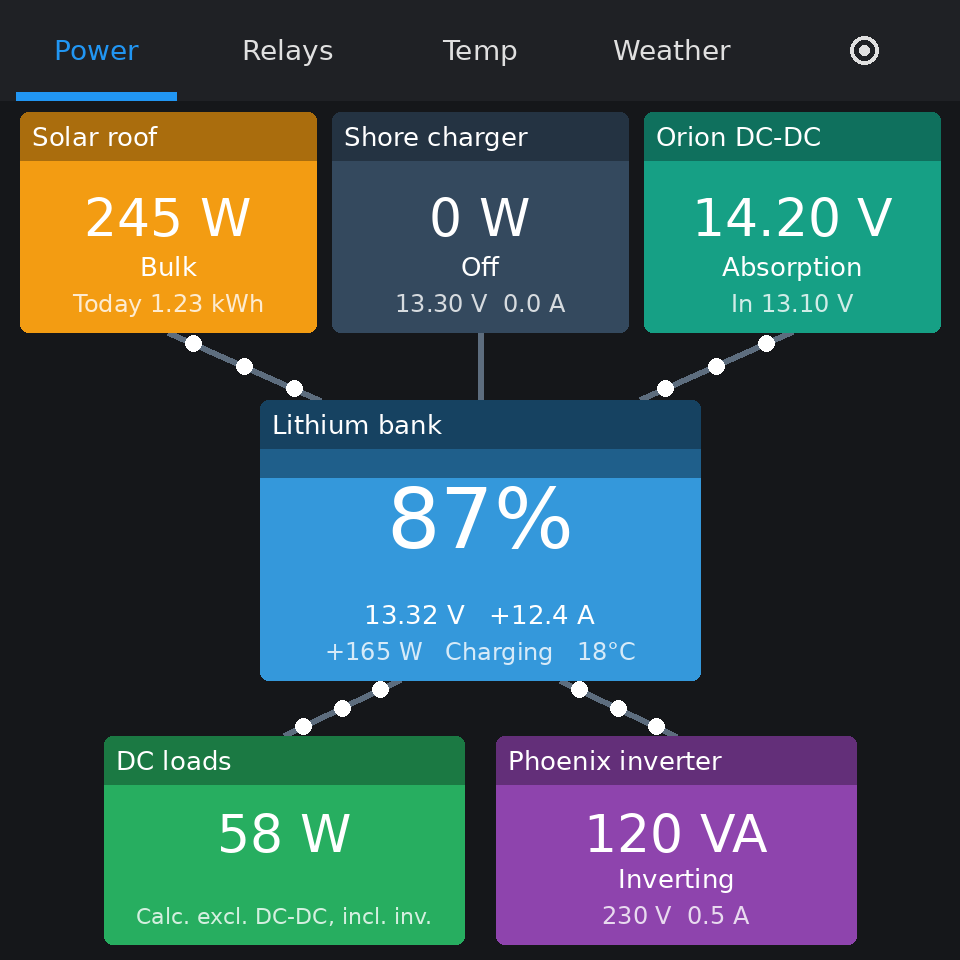
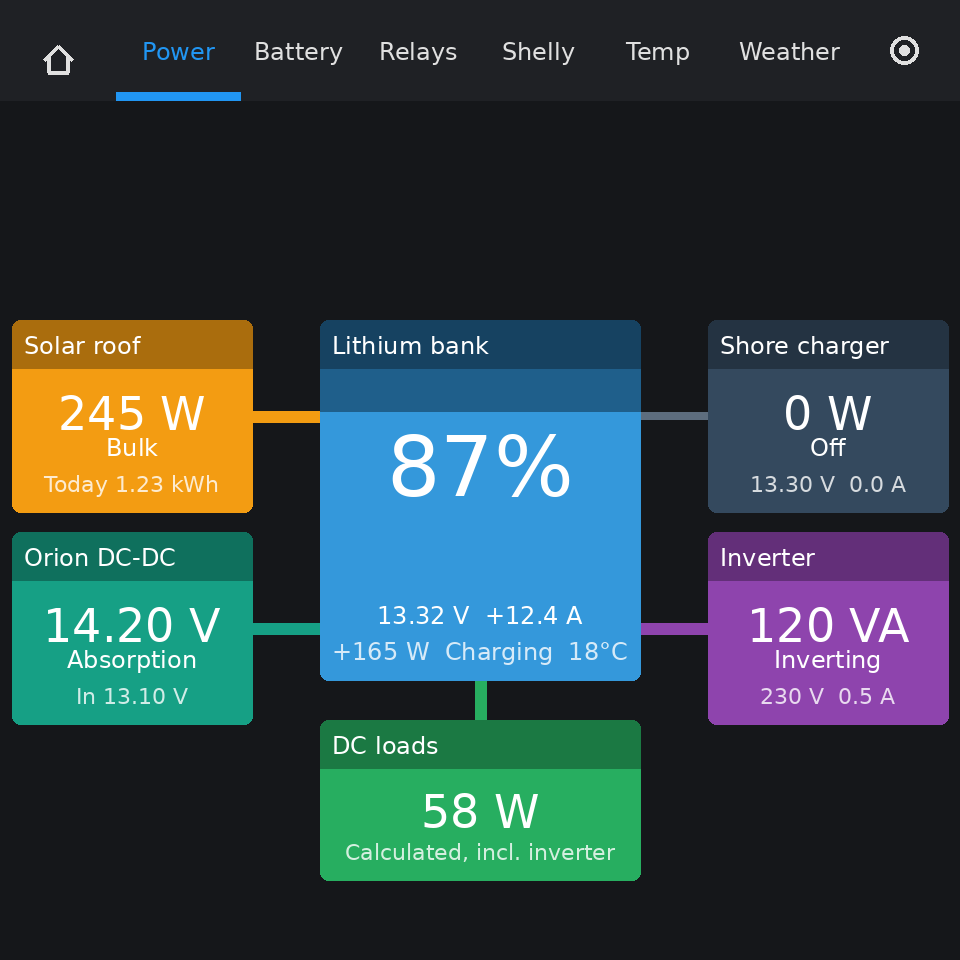
Add files via upload

diff --git a/web.cpp b/web.cpp
@@ -429,8 +429,11 @@ static void handle_root() {
 
   char pass[33];
   get_password(pass);
-  add(s, "<p class='sub'>Updated every 5 s &middot; up %lu min &middot; <a href='/log'>log</a> &middot; <a href='/files'>files</a>%s</p></body></html>", (unsigned long)(now / 60000),
-      pass[0] ? " &middot; <a href='/logout'>Log out</a>" : "");
+  add(s, "<p class='sub'>Updated every 5 s &middot; up %lu min &middot; <a href='/log'>log</a> &middot; <a href='/files'>files</a>%s</p>"
+         "<p class='sub'>&copy; %s %s Fredrik Rudin &middot; "
+         "<a href='https://github.com/fredrikrudin/esp32-S3-ws4-caravan'>github.com/fredrikrudin/esp32-S3-ws4-caravan</a><br>"
+         "med hj&auml;lp av claude.ai Opus 5</p></body></html>",
+      (unsigned long)(now / 60000), pass[0] ? " &middot; <a href='/logout'>Log out</a>" : "", __DATE__, __TIME__);
   server.send(200, "text/html; charset=utf-8", s);
 }
 

diff --git a/ui_settings.cpp b/ui_settings.cpp
@@ -638,4 +638,15 @@ void build_settings_tab() {
   lv_label_set_long_mode(sd_hint, LV_LABEL_LONG_WRAP);
   lv_label_set_text(sd_hint, "Eject before pulling the card out. Files can be downloaded from the web page under /files. The backup contains WiFi and Victron keys, so keep the card safe. Restoring restarts the board.");
   update_sdlog_label();
+
+  /* ---- About ---- */
+  sec = make_section(tab_settings, LV_SYMBOL_HOME "  About");
+  lv_obj_t *about = make_grey_label(sec);
+  lv_obj_set_width(about, LV_PCT(100));
+  lv_label_set_long_mode(about, LV_LABEL_LONG_WRAP);
+  /* LVGL's built-in fonts have no (c) sign and no a-umlaut, so plain ASCII here */
+  lv_label_set_text(about,
+                    "(c) " __DATE__ " " __TIME__ " Fredrik Rudin\n"
+                    "github.com/fredrikrudin/esp32-S3-ws4-caravan\n"
+                    "med hjalp av claude.ai Opus 5");
 }

diff --git a/README.md b/README.md
@@ -2,7 +2,7 @@
 
 Caravan display for the **Waveshare ESP32-S3-Touch-LCD-4 (V4)**, the 480×480 touch board with the CH32V003 IO expander. Built with Arduino and LVGL 8.
 
-![Power tab](power-page.png)
+![Power tab](power-tab.png)
 
 *The Power tab with example values. Dots move along the lines where energy flows.*
 
@@ -103,6 +103,24 @@ Everything is in one flat folder. `app.h` holds the shared configuration, data t
 - **GFX Library for Arduino**, **SensorLib** and **WS_CH32_IO**: the versions bundled with Waveshare's ESP32-S3-Touch-LCD-4 examples
 - **ArduinoJson** v7
 - **NimBLE-Arduino** by h2zero, v2.x
+
+## ESP32-S3-Touch-LCD-4 Library file installation instructions
+
+Waveshare's own instructions for this board and their example sketches. **This firmware
+needs the libraries listed under [Libraries](#libraries) instead**: it uses GFX Library for
+Arduino, SensorLib and WS_CH32_IO, because the V4 board has the CH32V003 chip rather than
+the TCA9554 expander. The table is here because `lvgl` and `lv_conf.h` are shared, and the
+offline copies below are the versions this board is tested with.
+
+| Library Name | Description | Version | Library Installation Requirements |
+|---|---|---|---|
+| ESP32_Display_Panel | ST7701, GT911 driver library | v0.1.8 | "Install Online" or "Install Offline" |
+| ESP32_IO_Expander | TCA9554 IO expansion chip driver library | v0.0.4 | "Install Offline" (return value of IOExpander_Library changed) |
+| lvgl | LVGL graphical library | v8.4.0 | "Install Online" requires copying the demos folder to src after installation. "Install Offline" is recommended |
+| lv_conf.h | LVGL configuration file | —— | "Install Offline" |
+
+The libraries to install offline are in Waveshare's repository:
+<https://github.com/waveshareteam/ESP32-S3-Touch-LCD-4/tree/main/examples/arduino/libraries>
 
 ## Arduino IDE settings
 
